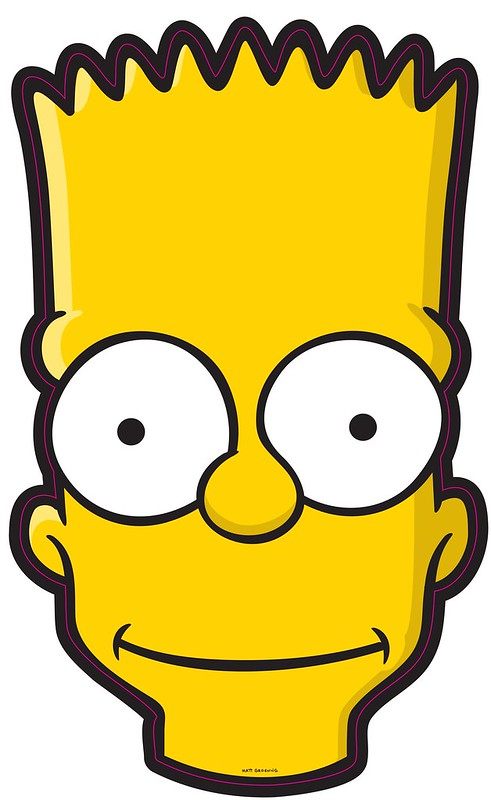
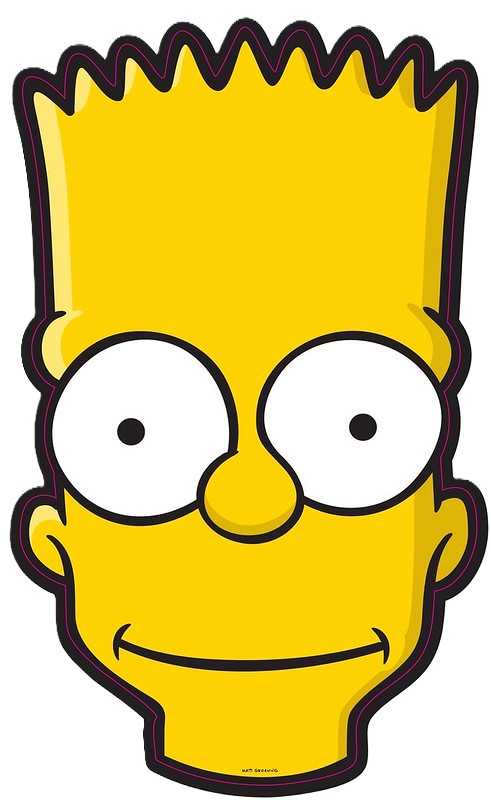
added bart simpson as mc

diff --git a/code/dialog.py b/code/dialog.py
@@ -18,9 +18,20 @@ class DialogBox:
         self.font = pygame.font.Font(config.DIALOG_FONT_PATH, 32)
         self.text = ""
         self.active = False
-        self.image = pygame.image.load(os.path.join(config.PIC_PATH, 's4.png'))
-        self.image = pygame.transform.scale(self.image, (120, 100))
+
+        #Loads images and stores then in a dictionary
+        self.images = {
+            'player':pygame.image.load(os.path.join(config.PIC_PATH,'Bart.jpg')),
+            'homeless':pygame.image.load(os.path.join(config.PIC_PATH, 'homelessMan.jpg')),
+            'sarah':pygame.image.load(os.path.join(config.PIC_PATH, 's4.png'))
+        }
+
+        for key in self.images:
+            self.images[key] = pygame.transform.scale(self.images[key], (120, 100))
+
+        self.image = self.images['sarah'] # Default Image
         self.image_rect = self.dialog_image.get_rect(topleft=(self.rect.right - 120, self.rect.top + 100))
+
         self.typing_speed = 50
         self.last_update_time = pygame.time.get_ticks()
         self.current_char_index = 0
@@ -39,6 +50,11 @@ class DialogBox:
         self.dialog_queue = []  # Queue to handle multiple dialogues
         self.is_showing = False  # Flag to check if a dialog is being shown
 
+    def set_image(self, image_key):
+        if image_key in self.images:
+            print(f"Setting image: {image_key}")
+            self.image = self.images[image_key]
+
     def show(self, text, auto_hide_seconds=None):
         self.full_text = text
         self.text = ""
@@ -50,6 +66,7 @@ class DialogBox:
             self.auto_hide_time = pygame.time.get_ticks() + (auto_hide_seconds * 1000)
         else:
             self.auto_hide_time = None
+
 
     def hide(self):
         self.active = False
@@ -71,11 +88,6 @@ class DialogBox:
             self.text += self.full_text[self.current_char_index]
             self.current_char_index += 1
 
-    def process_queue(self):
-        if self.dialog_queue and not self.is_showing:
-            next_message, auto_hide_seconds = self.dialog_queue.pop(0)
-            self.show(next_message, auto_hide_seconds)
-
     def add_char(self, char):
         self.user_input += char
 
@@ -88,19 +100,26 @@ class DialogBox:
         return input_text
 
     def show_dialog(self, message, auto_hide_seconds=None):
+        if "Here is Level 1" in message:
+            self.set_image('sarah')
+        elif 'What do I do now!?? I lost my job and cannot code' in message:
+            self.set_image('player')
+        elif 'Spare Change ?' in message:
+            self.set_image('homeless')
+        elif "The enemy is attacking" in message:
+            self.set_image('sarah')
+        # Add the message to queue and processes
         self.dialog_queue.append((message, auto_hide_seconds))
         self.process_queue()
 
-        if "The enemy is attacking" in message and self.dialogue_shown:
-            return  # Skip showing the dialogue if it has already been shown
+        if not self.is_showing:
+            self.process_queue()
 
-        if "Here is Level 1" in message:
-            self.set_style((173, 216, 230), os.path.join('sprites', 's2.png'))
-        elif 'What do I do know!? I lost my job and know nothing about coding' in message:
-            self.set_style((173, 216, 230), os.path.join('sprites', 'enemies', 'Homeless_1', 'Idle.png'))
-
-        if "The enemy is attacking" in message:
-            self.dialogue_shown = True  # Set this flag to ensure it only shows once
+    def process_queue(self):
+        if self.dialog_queue and not self.is_showing:
+            next_message, auto_hide_seconds = self.dialog_queue.pop(0)
+            self.show(next_message, auto_hide_seconds)
+            self.is_showing = True # Ensures the dialog is shown
 
     def handle_events(self, event):
         if event.type == pygame.KEYDOWN:
@@ -145,159 +164,3 @@ class DialogBox:
         self.image = pygame.image.load(image_path)
         self.image = pygame.transform.scale(self.image, (100, 100))
 
-# import pygame
-# import os
-# import config
-# import character
-# import enemy
-
-# class DialogBox:
-#     def __init__(self, surface, width, height):
-#         self.surface = surface
-#         self.width = width
-#         self.height = height
-#         self.rect = pygame.Rect((surface.get_width() - width) // 2, (surface.get_height() - height) // 2, width, height)
-
-#         self.dialog_image = pygame.image.load(config.DIALOGUE_BOX_IMAGE_PATH)
-#         self.dialog_image = pygame.transform.scale(self.dialog_image, (width, height))
-#         self.text_color = pygame.Color('white')
-#         self.font = pygame.font.Font(config.DIALOG_FONT_PATH, 32)
-#         self.text = ""
-#         self.active = False
-#         self.image = pygame.image.load(os.path.join(config.PIC_PATH,'s4.png'))
-#         self.image = pygame.transform.scale(self.image, (120, 100))
-#         self.image_rect = self.dialog_image.get_rect(topleft=(self.rect.right - 120, self.rect.top + 100))
-#         self.typing_speed = 50
-#         self.last_update_time = pygame.time.get_ticks()
-#         self.current_char_index = 0
-#         self.full_text = ""
-#         self.auto_hide_time = None
-#         self.user_input = ""
-#         self.input_font = pygame.font.Font(os.path.join(config.FONT_PATH), 32)
-
-#         self.input_font = pygame.font.Font(os.path.join(config.FONT_PATH), 32)
-
-#         self.input_color = (0, 0, 255)
-#         self.input_text = ""
-#         self.max_attempts = 3
-#         self.attempts = 0
-#         self.correct_answer = ""
-#         self.is_question = False
-#         self.dialogue_shown = False  # Flag to ensure the dialogue only shows once
-#         self.dialog_queue = []  # Queue to handle multiple dialogues
-#         self.is_showing = False  # Flag to check if a dialog is being shown
-
-
-#     def show(self, text, auto_hide_seconds=None):
-#         self.full_text = text
-#         self.text = ""
-#         self.current_char_index = 0
-#         self.active = True
-#         self.last_update_time = pygame.time.get_ticks()
-#         if auto_hide_seconds is not None:
-#             self.auto_hide_time = pygame.time.get_ticks() + (auto_hide_seconds * 1000)
-#         else:
-#             self.auto_hide_time = None
-
-#     def hide(self):
-#         self.active = False
-#         self.auto_hide_time = None
-#         self.is_showing = False
-#         self.process_queue()  # Check if there are more dialogues in the queue
-#         print("Dialog box hidden")
-
-#     def update(self):
-#         if not self.active:
-#             return
-
-#         current_time = pygame.time.get_ticks()
-#         if self.auto_hide_time is not None and current_time >= self.auto_hide_time:
-#             self.hide()
-
-#         if current_time - self.last_update_time > self.typing_speed and self.current_char_index < len(self.full_text):
-#             self.last_update_time = current_time
-#             self.text += self.full_text[self.current_char_index]
-#             self.current_char_index += 1
-
-#     def process_queue(self):
-#         if self.dialog_queue and not self.is_showing:
-#             next_message, auto_hide_seconds = self.dialog_queue.pop(0)
-#             self.show(next_message, auto_hide_seconds)
-
-#     def add_char(self, char):
-#         self.user_input += char
-
-#     def backspace(self):
-#         self.user_input = self.user_input[:-1]
-
-#     def get_input(self):
-#         input_text = self.user_input
-#         self.user_input = ""
-#         return input_text
-
-#     def draw(self):
-#         if not self.active:
-#             return
-
-#         self.surface.blit(self.dialog_image, self.rect.topleft)
-#         words = self.text.split()
-#         lines = []
-#         current_line = []
-
-#         for word in words:
-#             test_line = ' '.join(current_line + [word])
-#             if self.font.size(test_line)[0] < self.rect.width - 20:
-#                 current_line.append(word)
-#             else:
-#                 lines.append(' '.join(current_line))
-#                 current_line = [word]
-#         lines.append(' '.join(current_line))
-#         y = self.rect.top + 10
-#         for line in lines:
-#             text_surface = self.font.render(line, True, self.text_color)
-#             self.surface.blit(text_surface, (self.rect.left + 10, y))
-#             y += text_surface.get_height() + 5
-#         self.surface.blit(self.image, self.image_rect)
-
-#         if self.active:
-#             input_surface = self.input_font.render(self.user_input, True, (0, 0, 0))
-#             input_rect = input_surface.get_rect(bottomleft=(self.rect.left + 10, self.rect.bottom - 10))
-#             self.surface.blit(input_surface, input_rect)
-
-#     def set_style(self, background_color, image_path):
-#         self.background_color = background_color
-#         self.image = pygame.image.load(image_path)
-#         self.image = pygame.transform.scale(self.image, (100, 100))
-
-#     def show_dialog(self, message, auto_hide_seconds=None):
-#         self.show(message, auto_hide_seconds)
-#        # Handle dialogue related to enemy attacking
-#         if "The enemy is attacking" in message and self.dialogue_shown:
-#             return  # Skip showing the dialogue if it has already been shown
-
-#         # Show the dialogue and handle auto-hide if applicable
-#         self.show(message, auto_hide_seconds)
-#         pygame.event.clear()
-
-#         # Apply styles based on specific dialogues
-#         if "Here is Level 1" in message:
-#             self.set_style((173, 216, 230), os.path.join('sprites', 's2.png'))
-#         elif 'What do I do know!? I lost my job and know nothing about coding' in message:
-#             self.set_style((173, 216, 230), os.path.join('sprites', 'enemies', 'Homeless_1', 'Idle.png'))
-#                     # Show the dialogue and handle auto-hide if applicable
-#             self.show(message, auto_hide_seconds)
-#             pygame.event.clear()
-
-#         # Mark the dialogue as shown if it's the enemy attack warning
-#         if "The enemy is attacking" in message:
-#             self.dialogue_shown = True  # Set this flag to ensure it only shows once
-
-            
-#     def handle_events(self, event):
-#         if event.type == pygame.KEYDOWN:
-#             if event.key == pygame.K_BACKSPACE:
-#                 self.backspace()
-#             elif event.key == pygame.K_RETURN:
-#                 return self.get_input()
-#             else:
-#                 self.add_char(event.unicode)

diff --git a/code/game.py b/code/game.py
@@ -4,7 +4,7 @@ import os
 from pygame.locals import *
 import boss_mana
 from boss1 import Boss
-from enemy import Enemy
+from enemy import Enemytth
 from background import Background
 from healthbar import HealthBar, LifeIcon
 from music import MusicPlayer
@@ -178,11 +178,11 @@ class Game:
                 if not hasattr(self, 'first_encounter_triggered') and self.is_in_attack_range(enemy):
                     self.first_encounter_triggered = True
                     self.dialog_box.show_dialog("TIP -- (Use the left mouse button to attack!)", auto_hide_seconds=5)
-                    self.dialog_box.set_style((3,3,3), os.path.join("pic", "s2.png"))
+
 
                     # Add the remaining dialogues to the queue
                     for counter in range(1, 5):
-                        self.dialog_box.show_dialog(f"{config.LEVEL_ONE_DIALOGUE[counter]}", auto_hide_seconds=5)
+                        self.dialog_box.show_dialog(f"Dialogue Line {counter}", auto_hide_seconds=5)
                     break  # Exit the loop after showing the dialog for the first encounter
 
             collided = False

diff --git a/code/config.py b/code/config.py
@@ -164,7 +164,7 @@ def get_random_questions(n=5):
 
 #level 1 dialog
 
-LEVEL_ONE_DIALOGUE =  {1:"What do I do know!? I lost my job and know nothing about coding", 2: "Spare Change",
-    3:"Sorry man I dont have any", 4:"We will see about that, guys!! take his money",
-    5:"Click your right mouse button to atack enemies", 6:"Our leader will show you who is boss"}
+#LEVEL_ONE_DIALOGUE =  {1:"What do I do know!? I lost my job and know nothing about coding", 2: "Spare Change",
+   # 3:"Sorry man I dont have any", 4:"We will see about that, guys!! take his money",
+  #  5:"Click your right mouse button to attack enemies", 6:"Our leader will show you who is boss"}
 
